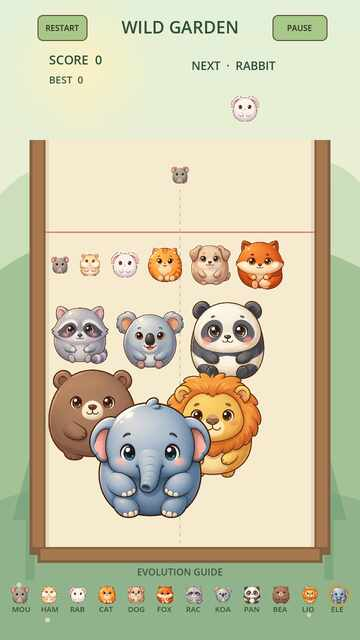
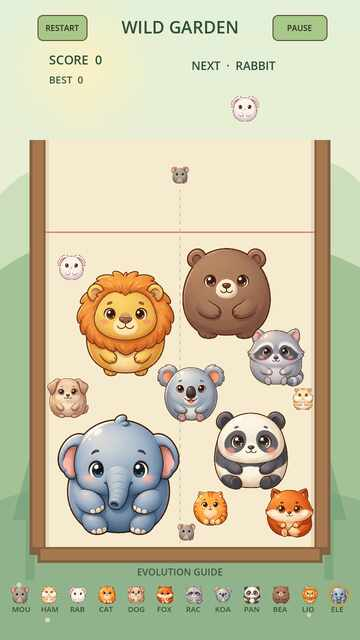
Record verified full-window renders and remaining DEV blockers

Changed region(s): [[0.1222, 0.375, 0.8861, 0.8438]]

diff --git a/MergeAnimals/VISUAL_QA_REPORT.md b/MergeAnimals/VISUAL_QA_REPORT.md
@@ -1,9 +1,9 @@
 # Visual QA — V0.4.1 DEV
 
 ## 18 real pəncərə görünüşü
-[Godot 4.7.2 / Xvfb / Mesa llvmpipe CI 45682074271](https://github.com/sandikovcusu-commits/MergeAnimal/actions/runs/45682074271), commit `4c52186`. Hər ölçüdə ayrıca Godot prosesi `--resolution` ilə açılır, X11 pəncərəsi `xdotool` ilə tapılır, ImageMagick onu capture edir; PNG ölçüsü requested window ilə tutuşdurulur. PNG-lər CI `godot-renders` artifact-indədir. `art_reports/v041_windows/` altındakı 18 JPEG **eyni real görüntülərdən kiçildilmiş** yoxlama nüsxələridir; `v041_capture_index.jpg` icmaldır. Bu fayllar AI konsepti deyil. `tests/logs/v041-render-4c52186.txt` faktiki pəncərə/viewport ölçülərini saxlayır.
+[Godot 4.7.2 / Xvfb / Mesa llvmpipe CI 45682785944](https://github.com/sandikovcusu-commits/MergeAnimal/actions/runs/45682785944), commit `f8367b5`. Hər ölçüdə ayrıca Godot prosesi `--resolution` ilə açılır, X11 pəncərəsi `xdotool` ilə tapılır, ImageMagick onu capture edir; PNG ölçüsü requested window ilə tutuşdurulur. PNG-lər CI `godot-renders` artifact-indədir. `art_reports/v041_windows/` altındakı 18 JPEG **eyni real görüntülərdən kiçildilmiş** yoxlama nüsxələridir; `v041_capture_index.jpg` icmaldır. Bu fayllar AI konsepti deyil. `tests/logs/v041-render-f8367b5.txt` faktiki pəncərə/viewport ölçülərini saxlayır.
 
-Üç mövzu və 6 ölçünün thumbnail icmalına baxıldı; hər üç fon rəngi və board görünür. Portrait 360×640, 720×1280, 1080×1920 göstərir; 360×800-də üstdə/altda, 1366×768 və 1920×1080-də solda/sağda qara letterbox görünür. Görünən gameplay sahəsi kəsilməyib; landscape-də portrait sahə təbii olaraq dar qalır, kiçik guide oxunaqlılığı mobil cihazda təsdiqlənməyib. HUD SCORE/BEST, NEXT, current, danger line və guide görüntüdə görünür. 12 dondurulmuş müxtəlif heyvan test üçün eyni sahədə var; 4c52186 run-da bəzi böyük fiqurlar **üst-üstə yerləşdirilmiş fixture-dir**, real physics kontaktları və real oyun keyfiyyətinin sübutu deyil. Daha sonrakı fixture dairələri ayrı yerləşdirir; nəticəsi ayrıca CI ilə yoxlanmalıdır. Tema dəyişdirən oyun menyusu hazır deyil, test Inspector sahəsini dəyişir. Görüntü output-u log/ölçü ilə yoxlanır, avtomatik piksel-semantik qəbul və tam resolution professional audit yoxdur.
+Üç mövzu və 6 ölçünün thumbnail icmalına baxıldı; hər üç fon rəngi və board görünür. Portrait 360×640, 720×1280, 1080×1920 göstərir; 360×800-də üstdə/altda, 1366×768 və 1920×1080-də solda/sağda qara letterbox görünür. Görünən gameplay sahəsi kəsilməyib; landscape-də portrait sahə təbii olaraq dar qalır, kiçik guide oxunaqlılığı mobil cihazda təsdiqlənməyib. HUD SCORE/BEST, NEXT, current, danger line və guide görüntüdə görünür. 12 dondurulmuş müxtəlif heyvan test üçün eyni sahədə var; 4c52186 run-da bəzi böyük fiqurlar üst-üstə yerləşdirilmişdi; `f8367b5` run-da 12 fiziki dairə bir-birindən ayrı yerləşdirilib. Bədənlər dondurulub: bu, real fizika kontaktları və real oyun keyfiyyətinin sübutu deyil. Tema dəyişdirən oyun menyusu hazır deyil, test Inspector sahəsini dəyişir. Görüntü output-u log/ölçü ilə yoxlanır, avtomatik piksel-semantik qəbul və tam resolution professional audit yoxdur.
 
 ## Xəta və regression xəritəsi
 | ID | Fayl / funksiya / sətir | Səbəb və faktiki sübut | Düzəliş / görüntülər / regression | Açıq risk |

diff --git a/MergeAnimals/QA_REPORT.md b/MergeAnimals/QA_REPORT.md
@@ -16,4 +16,6 @@ Bu DEV namizədidir, mobil və vizual qəbul yekun deyil. Hər problem və regre
 120 Hz test run 45668965282: köhnə 49/49 və yeni 61/61, 100 bot işləsə də 100-drop fixture 99/99 ilə FAIL idi. Sabit 60 Hz frame fərziyyəsi aradan qaldırılıb; sonrakı [45670121999](https://github.com/sandikovcusu-commits/MergeAnimal/actions/runs/45670121999) run-da 100/100 PASS, köhnə 49 və yeni 61 yoxlama da PASS oldu. Mobil 120 Hz CPU/batareya testi yoxdur.
 
 ## V0.4.1 DEV regression
-[45681741743](https://github.com/sandikovcusu-commits/MergeAnimal/actions/runs/45681741743), `8eefda7`: Day2 49/0, Day3 61/0, genişləndirilmiş Day4 DEV 64/0 (əvvəlki 56 və Bear/Lion əlavə yoxlamaları), yeni UI 53/0. 20 ikon və 8×4 StyleBox resurs import/varlıq assertion-ları və HUD theme bağlantısı işləyib; test gözlə vizual keyfiyyətə zəmanət deyil. Başqa real collision/input/restart/bot testləri logdadır. Ayrı release acceptance testi missing expression və hüquqlar səbəbindən FAIL gözlənilir. 18 X11 tam pəncərə capture [45682074271](https://github.com/sandikovcusu-commits/MergeAnimal/actions/runs/45682074271); məhdudiyyətlər və vizual nəticə `VISUAL_QA_REPORT.md`-dədir. Yoxlamalar insan/mobile/Web playtest deyil.
+[45681741743](https://github.com/sandikovcusu-commits/MergeAnimal/actions/runs/45681741743), `8eefda7`: Day2 49/0, Day3 61/0, genişləndirilmiş Day4 DEV 64/0 (əvvəlki 56 və Bear/Lion əlavə yoxlamaları), yeni UI 53/0. 20 ikon və 8×4 StyleBox resurs import/varlıq assertion-ları və HUD theme bağlantısı işləyib; test gözlə vizual keyfiyyətə zəmanət deyil. Başqa real collision/input/restart/bot testləri logdadır. Ayrı release acceptance testi missing expression və hüquqlar səbəbindən FAIL gözlənilir. 18 X11 tam pəncərə capture [45682785944](https://github.com/sandikovcusu-commits/MergeAnimal/actions/runs/45682785944); məhdudiyyətlər və vizual nəticə `VISUAL_QA_REPORT.md`-dədir. Yoxlamalar insan/mobile/Web playtest deyil.
+
+Ayrı release acceptance addımı [45682747980](https://github.com/sandikovcusu-commits/MergeAnimal/actions/runs/45682747980) run-da müvəffəqiyyət kimi təqdim edilmir: nəticə gözlənildiyi kimi release-ə hazır olmadığını xəbərdarlıqla göstərir. 24 expression və kommersiya statusu blokludur. DEV regression workflow yaşıl olması release acceptance PASS demək deyil.

diff --git a/MergeAnimals/README.md b/MergeAnimals/README.md
@@ -1,3 +1,5 @@
+> **V0.4.1 DEV / buraxılışa hazır deyil:** 12 eksperimental AI sprite-ın model və kommersiya hüquqları təsdiqlənməyib. 24 üz vəziyyəti, effektlər və logo tamamlanmayıb. `VISUAL_QA_REPORT.md`, `ASSET_QA_REPORT.md` və `ASSET_LICENSES.md` sənədlərinə baxın.
+
 # Merge Animals: Wild Garden — V0.3.0-dev
 
 Godot 4.7.2, Compatibility renderer, 120 Hz fizika, redaktə edilə bilən 2D mənbə layihəsi. V0.2.1 üzərindən inkişaf etdirilib. Başsız Linux Actions testləri `QA_REPORT.md`-dədir. **DEV:** real render, mobil touch və Windows test edilməyib; qrafikalar müvəqqətidir.
